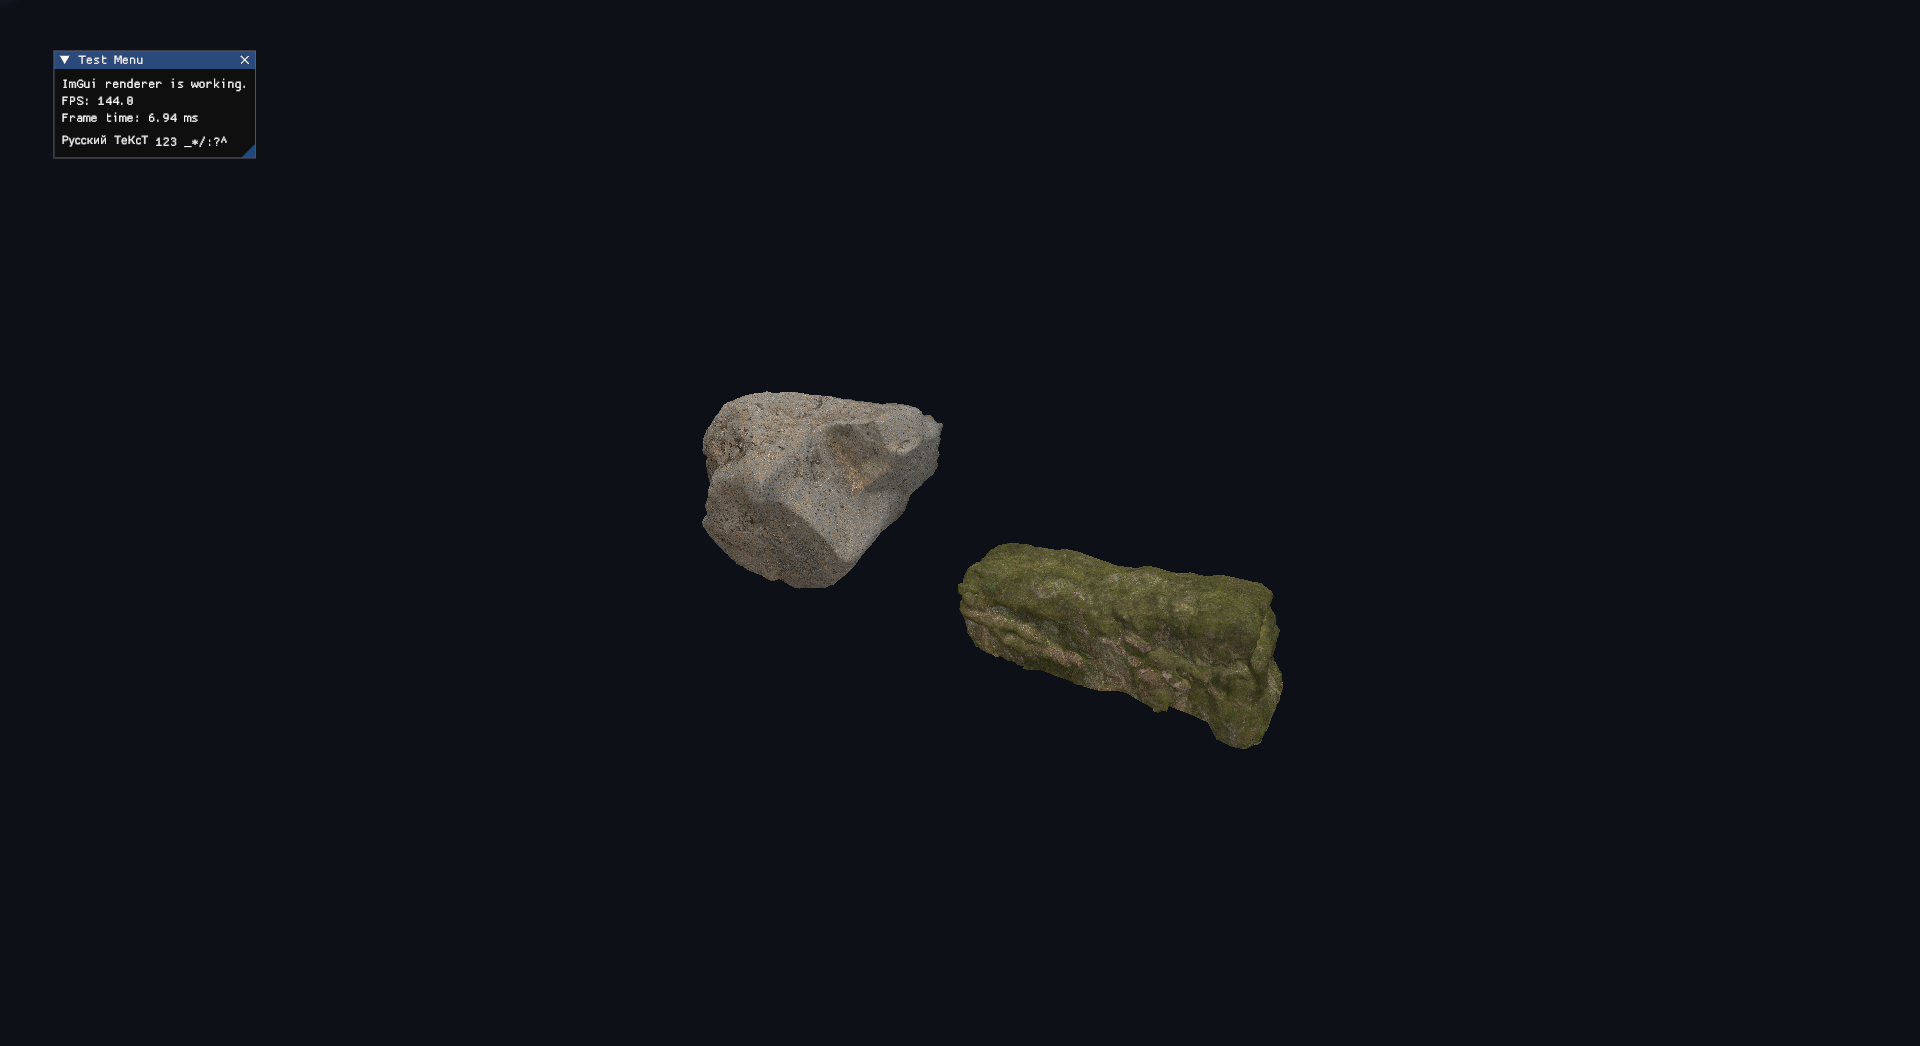
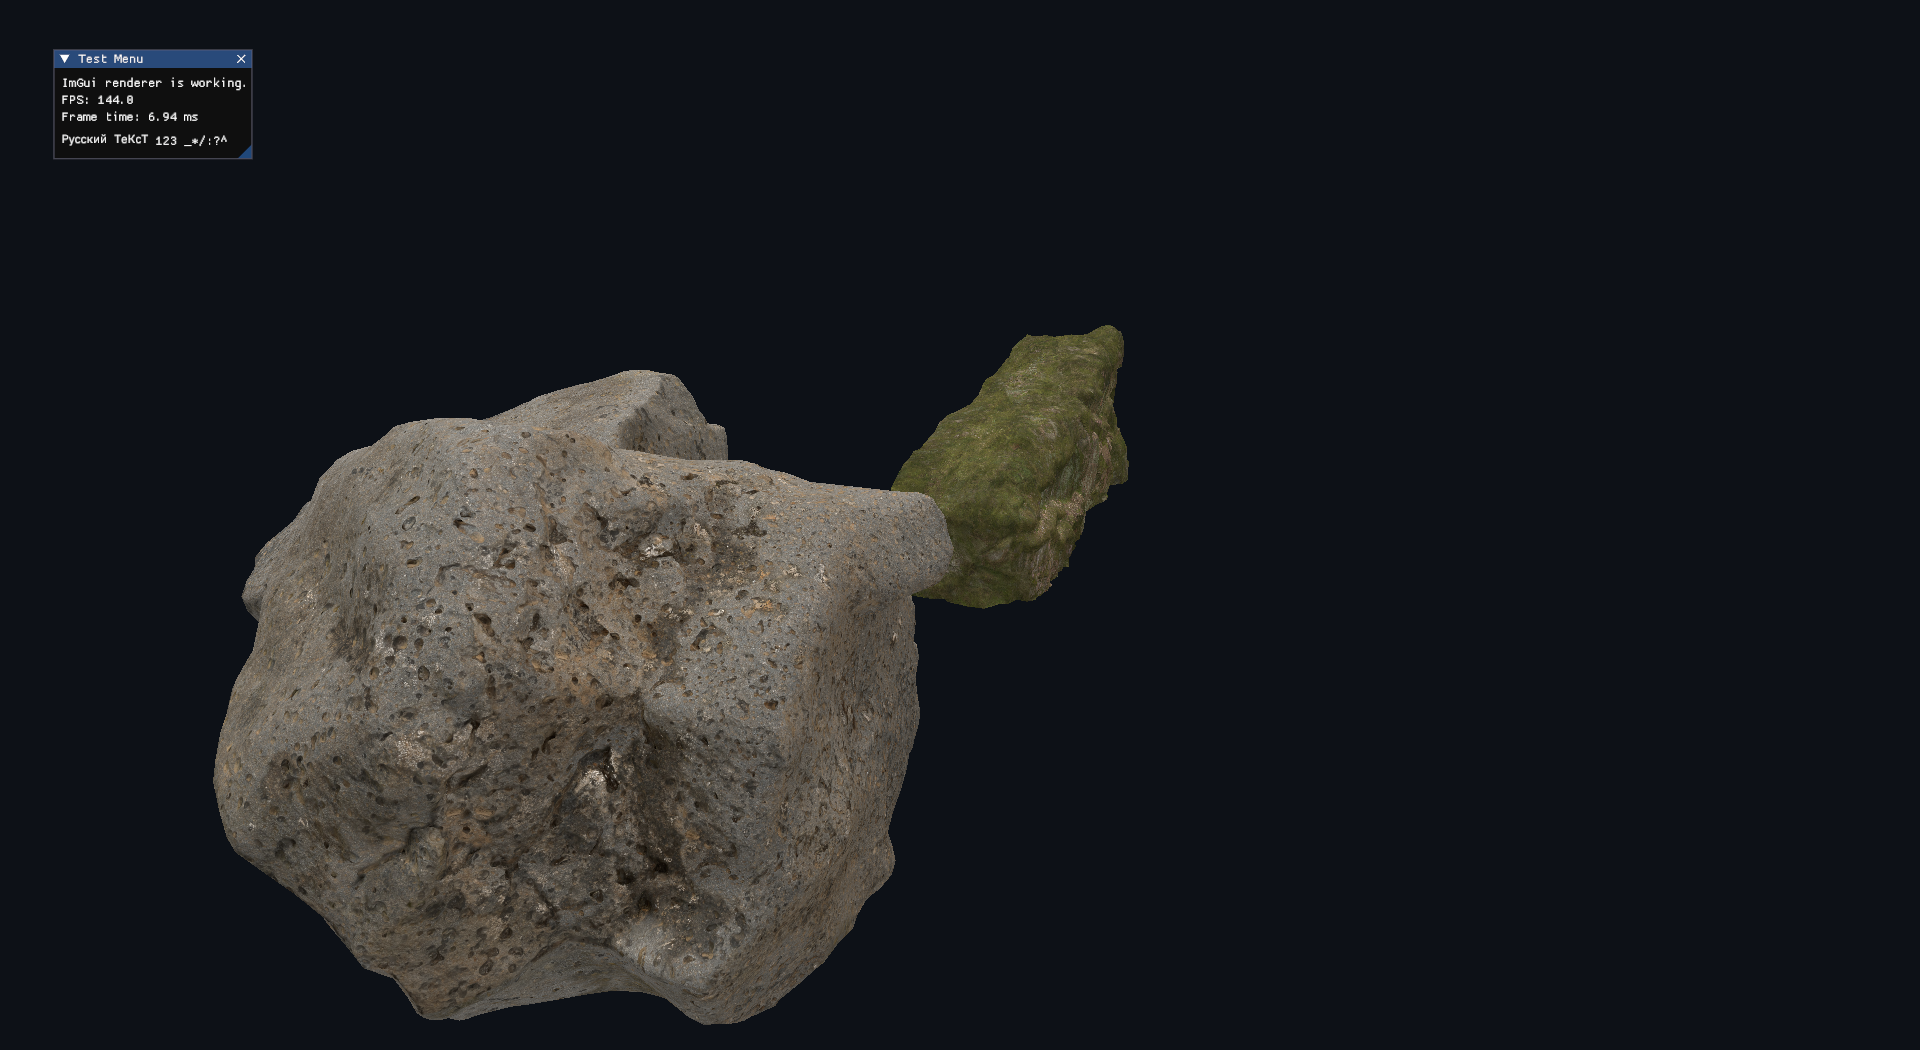
upd demo screenshot & readme

Changed region(s): [[0.0938, 0.3059, 0.6875, 0.979], [0.0312, 0.0306, 0.125, 0.153]]

diff --git a/README.md b/README.md
@@ -7,11 +7,9 @@ The current code includes a working model rendering demo.
 | Development Stage                                        |
 | :---                                                     |
 | Models, Textures & glTF Materials async loading;         |
-| ImGui Renderer with possibility of loading custom fonts; |
-| Scene Renderer (models);                                 |
 | Scene;                                                   |
 | Demo ImGui menu & scene;                                 |
-| Different building profiles;                             |
+| Free-flight playing camera;                              |
 
 Full engine specification is available here: [Docs/X-Player/Specification.md](/Docs/X-Player/Specification.md)
 
